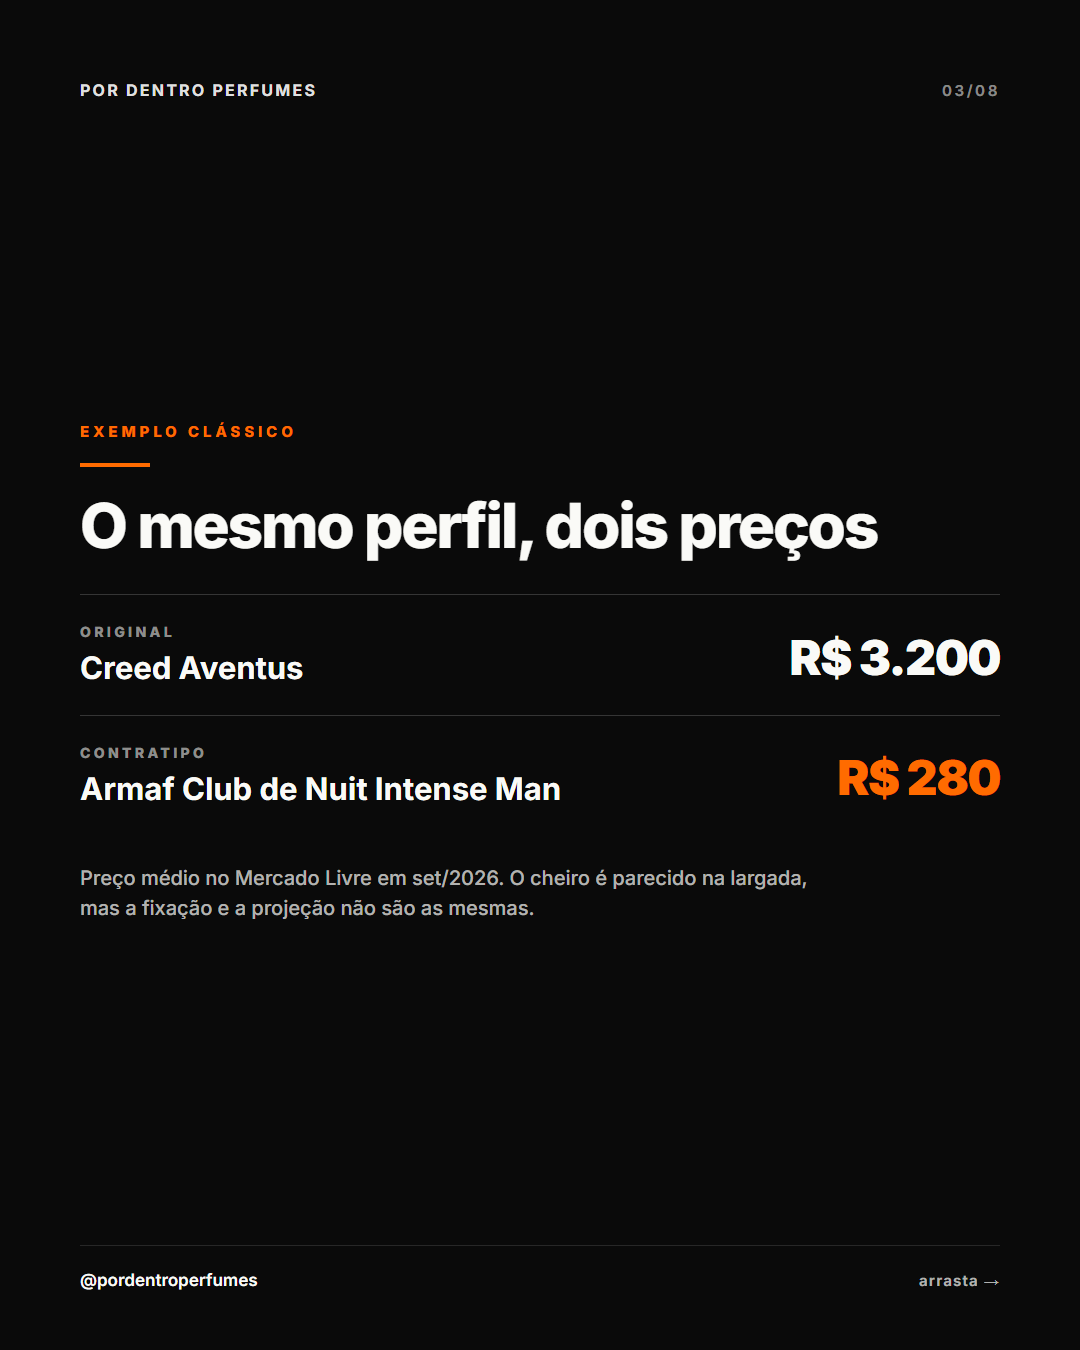
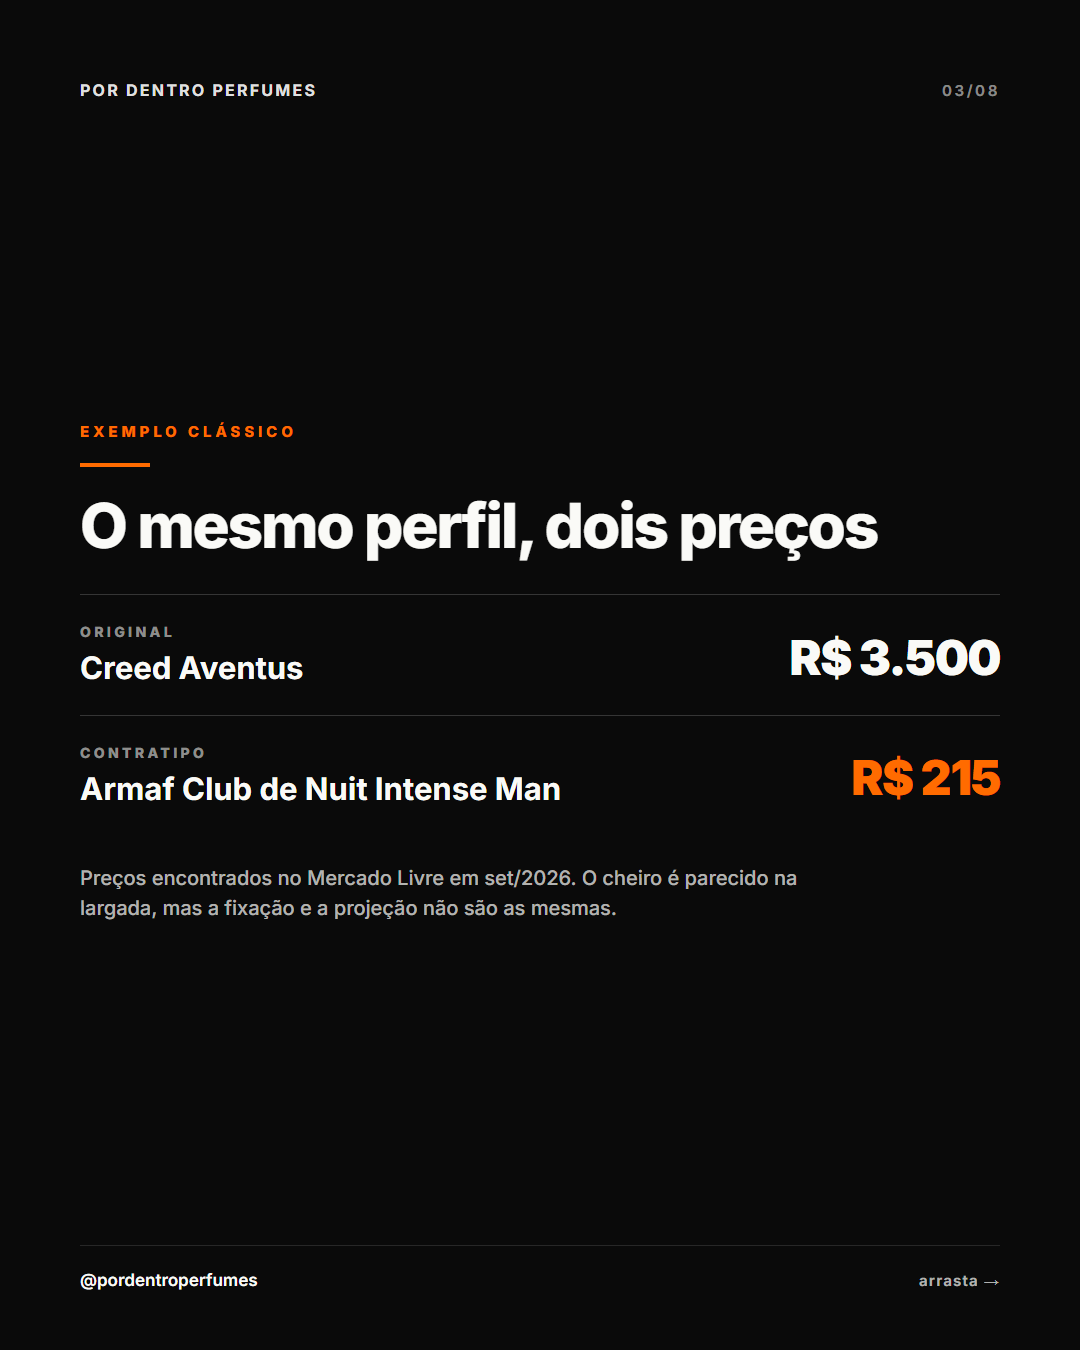
Carrossel contratipo: precos reais no slide de exemplo
Precos confirmados pelo usuario com anuncio real do Mercado Livre:
Creed Aventus R$ 3.500 e Armaf Club de Nuit Intense Man 105 ml R$ 215.

A nota deixou de dizer "preco medio" e passou a "precos encontrados",
que e o que de fato sao. Data de referencia mantida.

Changed region(s): [[0.0611, 0.6222, 0.7333, 0.6844], [0.7639, 0.56, 0.9472, 0.5911], [0.825, 0.4667, 0.8861, 0.4978]]

diff --git a/marketing/conteudo/carrossel-contratipo-vale-a-pena-2026-09-10/carrossel.html b/marketing/conteudo/carrossel-contratipo-vale-a-pena-2026-09-10/carrossel.html
@@ -222,17 +222,17 @@
           <div class="compare-tag">Original</div>
           <div class="compare-name">Creed Aventus</div>
         </div>
-        <div class="compare-price">R$ 3.200</div>
+        <div class="compare-price">R$ 3.500</div>
       </div>
       <div class="compare-row">
         <div class="compare-left">
           <div class="compare-tag">Contratipo</div>
           <div class="compare-name">Armaf Club de Nuit Intense Man</div>
         </div>
-        <div class="compare-price destaque">R$ 280</div>
+        <div class="compare-price destaque">R$ 215</div>
       </div>
     </div>
-    <div class="compare-note">Preço médio no Mercado Livre em set/2026. O cheiro é parecido na largada, mas a fixação e a projeção não são as mesmas.</div>
+    <div class="compare-note">Preços encontrados no Mercado Livre em set/2026. O cheiro é parecido na largada, mas a fixação e a projeção não são as mesmas.</div>
   </div>
   <div class="footer">
     <div class="footer-handle">@pordentroperfumes</div>

diff --git a/marketing/conteudo/carrossel-contratipo-vale-a-pena-2026-09-10/texto.md b/marketing/conteudo/carrossel-contratipo-vale-a-pena-2026-09-10/texto.md
@@ -13,7 +13,8 @@
 > **Revisão humana (2026-09-10, 2ª rodada):** adicionado o slide 3 com exemplo clássico
 > (original x contratipo + preço). Os fundos dos slides seguintes foram invertidos pra
 > manter a alternância preto/branco. Carrossel foi de 7 pra 8 slides.
-> **Preços do slide 3 pendentes de confirmação com preço real do Mercado Livre.**
+> Preços do slide 3 confirmados pelo usuário em 2026-09-10 com anúncio real do
+> Mercado Livre (Armaf 105 ml).
 
 ## Slide 1 — CAPA (preto)
 
@@ -32,9 +33,9 @@
 **Kicker:** Exemplo clássico
 **H2:** O mesmo perfil, dois preços
 **Comparação:**
-- Original: Creed Aventus — R$ 3.200
-- Contratipo: Armaf Club de Nuit Intense Man — R$ 280 (preço em laranja)
-**Nota:** Preço médio no Mercado Livre em set/2026. O cheiro é parecido na largada, mas a fixação e a projeção não são as mesmas.
+- Original: Creed Aventus — R$ 3.500
+- Contratipo: Armaf Club de Nuit Intense Man — R$ 215 (preço em laranja)
+**Nota:** Preços encontrados no Mercado Livre em set/2026. O cheiro é parecido na largada, mas a fixação e a projeção não são as mesmas.
 
 ## Slide 4 — Onde ele ganha (branco)
 
